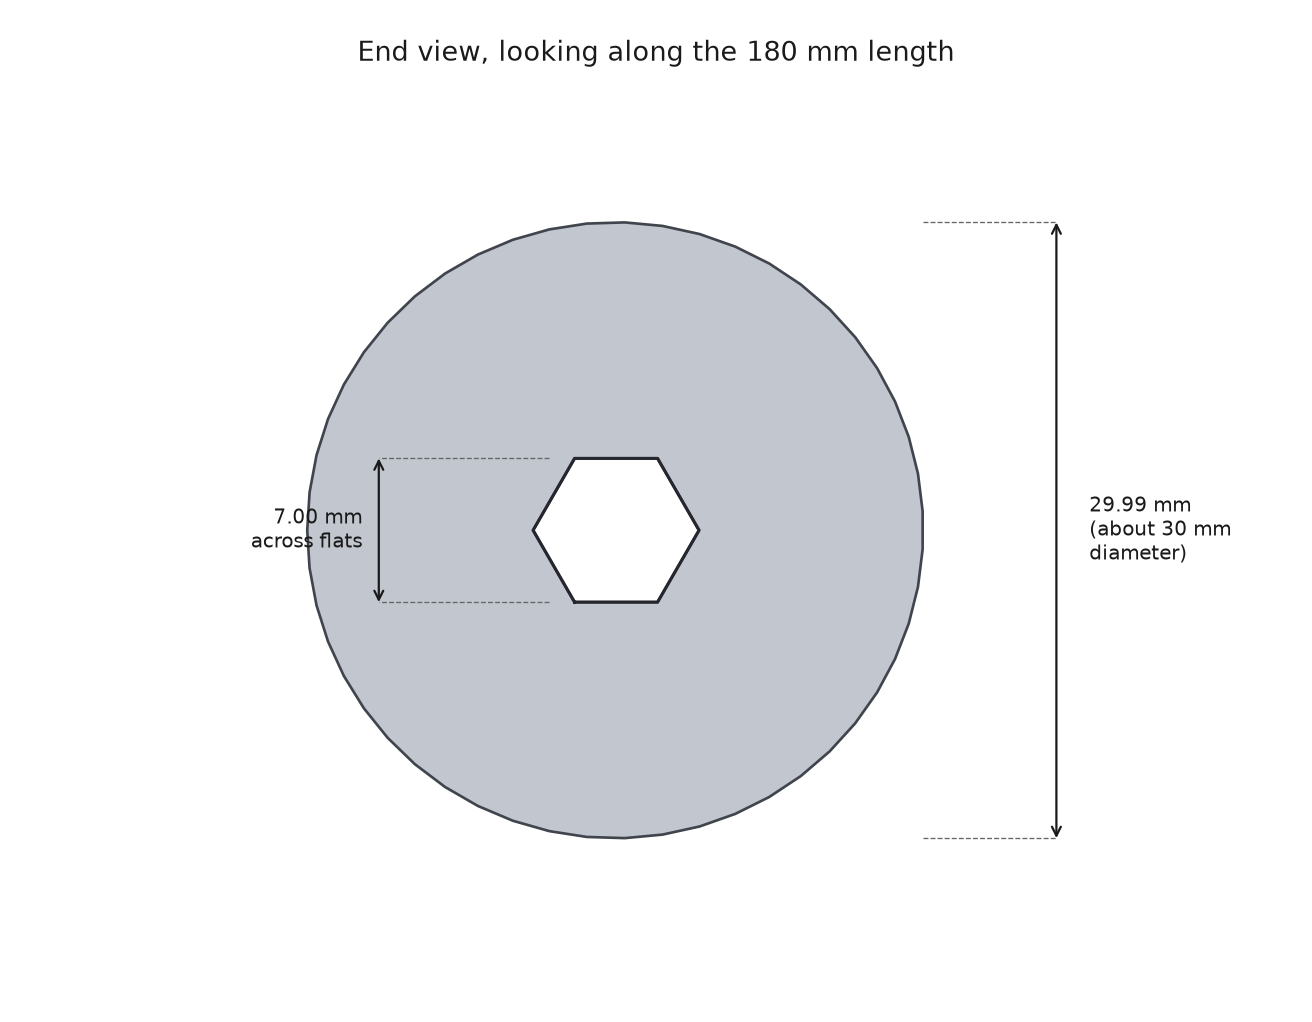
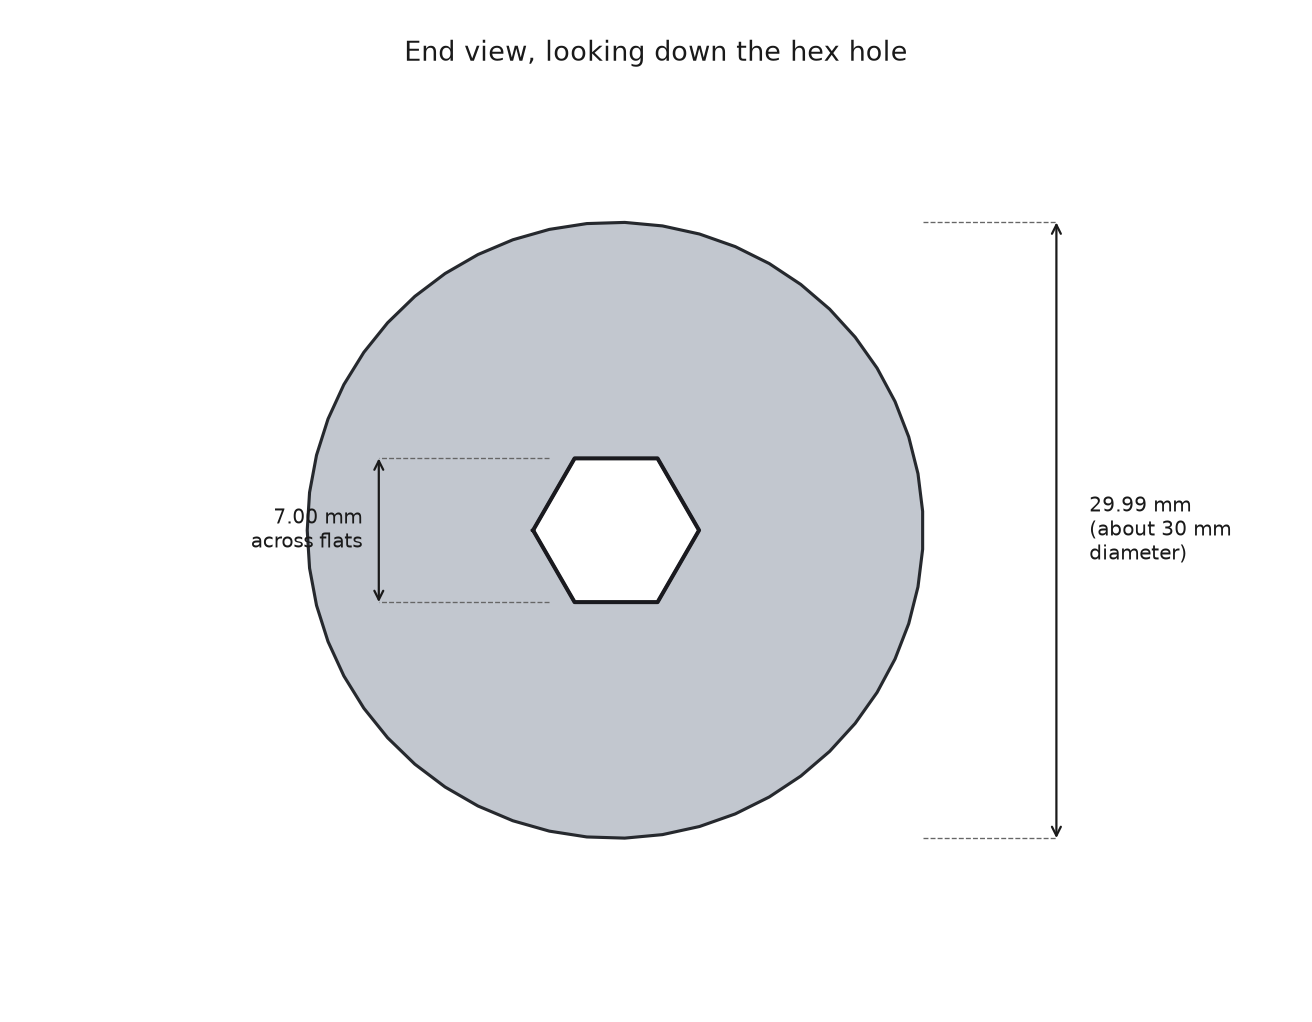
Intake Upgrade v1: print standing upright (180mm tall), update guide and previews

diff --git a/FTC Intake mechanism Upgrade/Printing Guide.md b/FTC Intake mechanism Upgrade/Printing Guide.md
@@ -6,9 +6,9 @@ The notes below describe the shape of the part and how we recommend printing it.
 
 ## Previews
 
-![Intake Upgrade v1, isometric view](./intake_v1_iso.png)
+![Intake Upgrade v1, standing upright to print](./intake_v1_iso.png)
 
-![End view, looking along the 180 mm length](./intake_v1_end.png)
+![End view, looking down the hex hole](./intake_v1_end.png)
 
 ## What we measured
 
@@ -16,9 +16,9 @@ We loaded the 3MF in millimetres, as the file itself specifies. The mesh is wate
 
 | Measurement | Value |
 |---|---|
-| Length | 180.00 mm |
-| Outer width (X) | 29.97 mm |
-| Outer height (Z) | 29.99 mm |
+| Length (print height) | 180.00 mm |
+| Outer diameter (X) | 29.97 mm |
+| Outer diameter (Y) | 29.99 mm |
 | Outer diameter (designed) | about 30 mm |
 | Hex hole, across flats | 7.00 mm |
 | Hex hole, side length | 4.04 mm |
@@ -32,12 +32,25 @@ A small note: the hex hole is about 0.06 mm off the centre line of the cylinder.
 
 ## Recommended orientation
 
-Print the roller lying on its side, with the long 180 mm axis along the bed, and one flat of the hex hole facing up (parallel to the bed). This is how the part was already placed in the 3MF, and the STL in this folder is already sitting this way (the bottom is at z = 0).
+Print the roller standing on one flat end, with the long axis straight up, so the part is 180 mm tall. The STL in this folder is already standing this way (the bottom is at z = 0, the top is at z = 180 mm). If your slicer lays it down, rotate it so it stands on a flat end.
 
-Why we recommend this:
+Why we print it this way:
 
-- A flat of the hex hole is on top, so the printer only has to bridge a short 4.04 mm flat. That is a small bridge, so we do not need supports inside the hole.
-- Printing it standing on one end would also avoid supports (the hole would be vertical), but the part is 180 mm tall, which is the full height of a Bambu Lab A1 mini. That is a tight fit. The layers would also run across the roller, which is weaker if the shaft bends.
+- Each layer is a true circle, so the outer surface comes out round.
+- The hex hole prints as a clean vertical hole, with no bridge and no supports.
+
+### Risks, and how we reduce them
+
+A tall, thin part (180 mm tall and about 30 mm across) can wobble or tip as it gets higher. To keep it stable:
+
+- Use a 5 to 8 mm brim, so the base has more grip on the bed.
+- Clean the bed, or use a glue stick, so the first layer holds well.
+- Slow the outer walls, and reduce speed in the upper half of the print.
+- Print one roller at a time, so the nozzle does not travel between parts and knock the roller over.
+
+### Build height
+
+The printer needs at least 180 mm of Z height. A Bambu Lab A1 mini is exactly 180 mm tall, so this part is right at the limit. Check the height in the slicer before we start, including the brim, and make sure the nozzle and the lid have room.
 
 ## Print settings
 
@@ -45,15 +58,18 @@ The 3MF was a Bambu Studio project for a Bambu Lab A1 mini, 0.4 mm nozzle, "0.20
 
 | Setting | Our recommendation | Notes |
 |---|---|---|
+| Orientation | Standing on one flat end, 180 mm tall | Already set in the STL |
 | Material | PETG or PLA | See the material section below |
 | Layer height | 0.2 mm | Matches the 3MF |
 | Walls | 3 or 4 | The 3MF had 2. Extra walls help the hex hole hold its shape |
 | Infill | 100% (fully solid) | Please change this. The 3MF still has 15% |
 | Infill pattern | gyroid or grid | At 100% the pattern matters less |
-| Supports | None | The top of the hex hole is a short 4 mm bridge |
-| Brim | None on a 180 mm bed. A small brim is fine on a larger bed | See the bed size warning |
+| Supports | None | The hex hole is vertical, so it needs no bridge and no supports |
+| Brim | 5 to 8 mm | Helps a tall, thin part stay on the bed |
+| Seam | Aligned or rear (optional) | Keeps the join line in one place down the side |
 | Bed | Textured PEI, if you have it | As in the 3MF |
-| First layer | Slow, with a good squish | The part is long and skinny, so bed adhesion matters |
+| First layer | Slow, with a good squish | Clean the bed, or use a glue stick |
+| Outer walls and upper half | Slower than the default | Reduces wobble as the part gets taller |
 | Nozzle | 0.4 mm | As in the 3MF |
 
 ## Material and temperatures
@@ -65,20 +81,9 @@ The 3MF has both PLA and PETG profiles loaded, and it looks like the plate was s
 | PETG | 245 C | 70 C | Tougher, and a bit more heat resistant. Better if the roller takes load or wear |
 | PLA | 220 C | 65 C | Easier to print, and easier to get a clean first layer |
 
-## Bed size warning
-
-The part is 180.00 mm long. A Bambu Lab A1 mini bed is 180 x 180 mm, so the part uses the full length of that bed. In the 3MF it was already placed to span the bed from one edge to the other.
-
-If we print on an A1 mini:
-
-- Do not add a brim or a skirt. There is no extra room.
-- Align the long axis with the bed, not at an angle.
-- Check that the first layer does not get clipped at the ends.
-- A larger printer (for example an A1, P1P or X1, with a 256 mm bed) is more comfortable.
-
 ## Filament use (estimated)
 
-These numbers are from the solid mesh volume (119.27 cm3) at 100% infill. They do not include purge, prime, or a brim, so the real use will be a little higher.
+These numbers are from the solid mesh volume (119.27 cm3) at 100% infill. They do not include purge, prime, or the brim, so the real use will be a little higher.
 
 | Material | Density used | Estimated mass |
 |---|---|---|
@@ -87,14 +92,15 @@ These numbers are from the solid mesh volume (119.27 cm3) at 100% infill. They d
 
 ## After printing: post-processing and fit check
 
-1. Let the part cool on the bed before we remove it, so it does not bend.
-2. Check the length with a ruler or calipers. We want 180 mm.
-3. Check the outer diameter. We want about 30 mm.
-4. Check the hex hole, across flats, at both ends. We want about 7.00 mm.
-5. Test that the hex shaft (exact size to confirm with Aarav) slides through the full length without forcing it. If the hole is tight, we can lightly sand the flats. Do not open it out so much that the shaft spins.
-6. Look down the hole to check it is straight.
-7. If we add foam around the roller, the planned sizes are in [Intake Calculations](./Intake%20Calculations.md). How the foam is fitted is to confirm with Aarav.
-8. Test the fit on the robot before we glue or pin anything. The mounting is to confirm with Aarav.
+1. Let the part cool on the bed before we remove it, so it does not bend or snap.
+2. Peel the brim off carefully, so we do not damage the base.
+3. Check the length with a ruler or calipers. We want 180 mm.
+4. Check the outer diameter. We want about 30 mm, and it should feel round.
+5. Check the hex hole, across flats, at both ends. We want about 7.00 mm.
+6. Test that the hex shaft (exact size to confirm with Aarav) slides through the full length without forcing it. If the hole is tight, we can lightly sand the flats. Do not open it out so much that the shaft spins.
+7. Look down the hole to check it is straight.
+8. If we add foam around the roller, the planned sizes are in [Intake Calculations](./Intake%20Calculations.md). How the foam is fitted is to confirm with Aarav.
+9. Test the fit on the robot before we glue or pin anything. The mounting is to confirm with Aarav.
 
 ## To confirm with Aarav
 

diff --git a/FTC Intake mechanism Upgrade/v1 by Aarav Jaisingh.md b/FTC Intake mechanism Upgrade/v1 by Aarav Jaisingh.md
@@ -13,8 +13,8 @@ This folder is the start of our intake mechanism upgrade, designed by Aarav Jais
 
 ## Preview
 
-![Intake Upgrade v1, isometric view](./intake_v1_iso.png)
+![Intake Upgrade v1, standing upright to print](./intake_v1_iso.png)
 
-The part is a 180 mm long roller, about 30 mm in diameter, with a hexagonal hole (7.00 mm across flats) through its full length. Please see the [Printing Guide](./Printing%20Guide.md) for the full measurements and the print settings we recommend (100% infill).
+The part is a 180 mm long roller, about 30 mm in diameter, with a hexagonal hole (7.00 mm across flats) through its full length. Print it standing on one flat end, so it is 180 mm tall. Please see the [Printing Guide](./Printing%20Guide.md) for the full measurements and the print settings we recommend (100% infill, 3 or 4 walls, a 5 to 8 mm brim, and no supports).
 
 The size notes for the hexagon, the 30 mm roller, the foam, and the 48 mm stock wheel are in [Intake Calculations.md](./Intake%20Calculations.md). How the roller is mounted on the robot is to confirm with Aarav.
